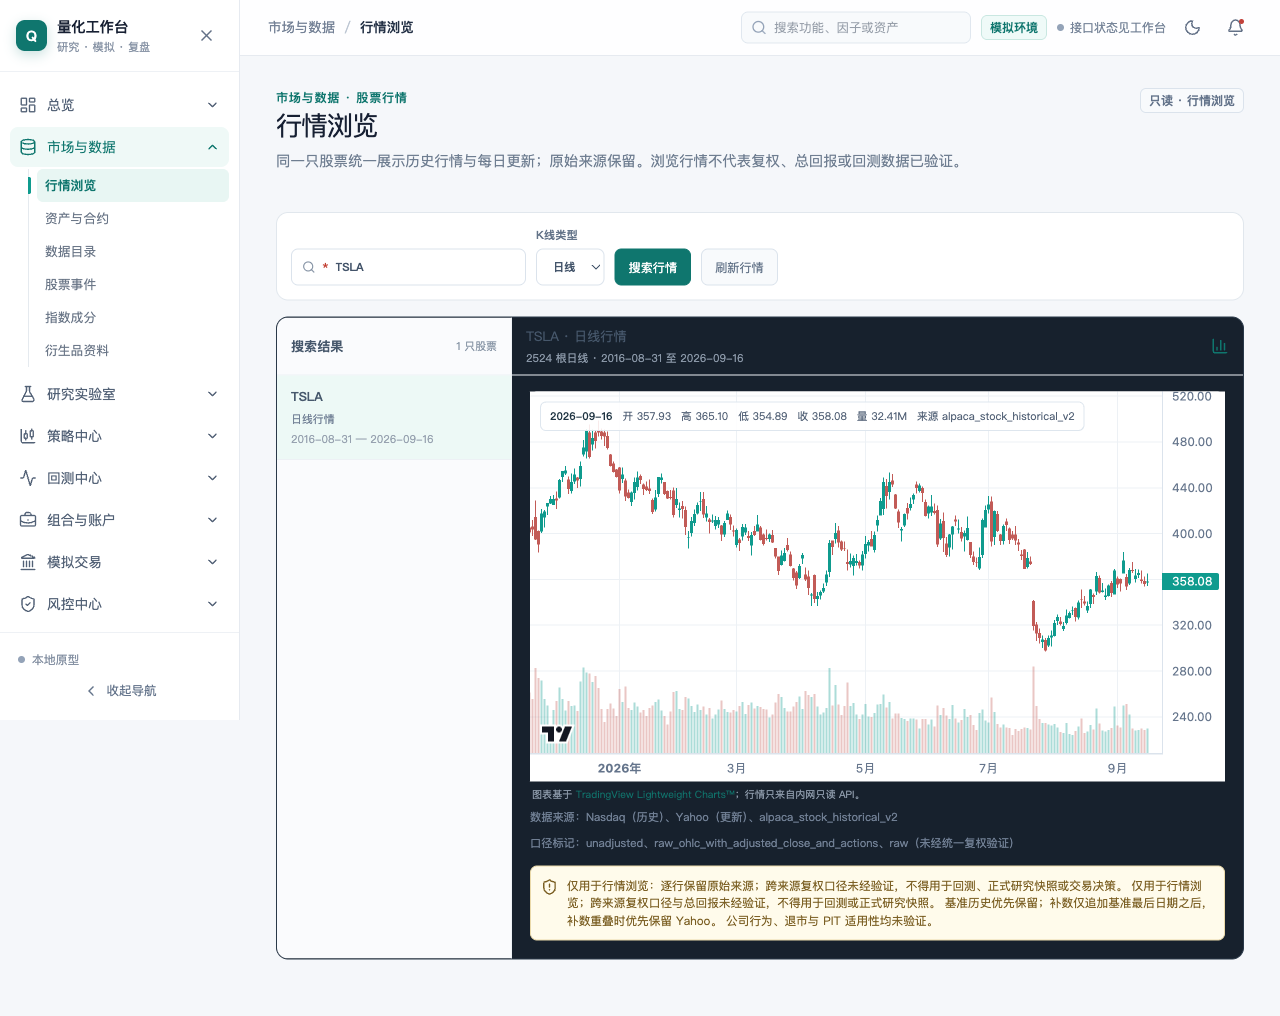
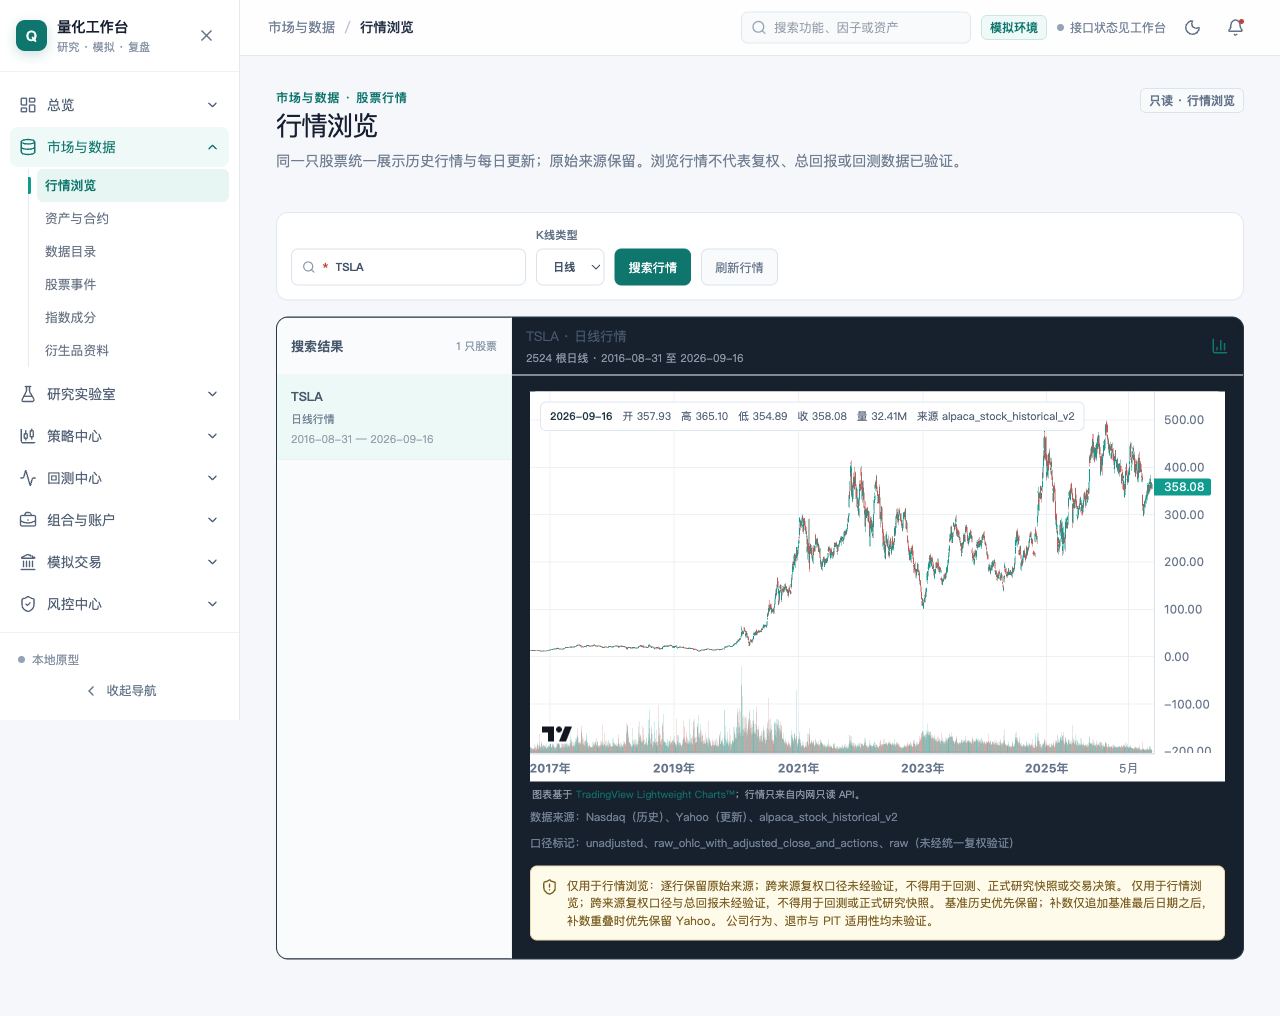
fix(ui): fit entire quote history in default chart viewport

diff --git a/ui/src/components/MarketBrowser.tsx b/ui/src/components/MarketBrowser.tsx
@@ -95,7 +95,7 @@ function CandleChart({ bars }: { bars: DailyBar[] }) {
     const palette = dark
       ? { background: '#17212d', text: '#9eafc2', grid: '#2a3949', border: '#344557', up: '#26a69a', down: '#ef5350', volumeUp: 'rgba(38, 166, 154, .45)', volumeDown: 'rgba(239, 83, 80, .45)' }
       : { background: '#ffffff', text: '#64748b', grid: '#edf1f5', border: '#dbe3ec', up: '#0f9b8e', down: '#c25b57', volumeUp: 'rgba(15, 155, 142, .35)', volumeDown: 'rgba(194, 91, 87, .35)' }
-    const chart = createChart(host, { width: host.clientWidth, height: 390, layout: { background: { type: ColorType.Solid, color: palette.background }, textColor: palette.text, attributionLogo: true }, grid: { vertLines: { color: palette.grid }, horzLines: { color: palette.grid } }, rightPriceScale: { borderColor: palette.border }, timeScale: { borderColor: palette.border, timeVisible: false, secondsVisible: false, rightOffset: 4, barSpacing: 8, minBarSpacing: 3 }, crosshair: { mode: CrosshairMode.Normal, vertLine: { color: palette.border, labelBackgroundColor: palette.up }, horzLine: { color: palette.border, labelBackgroundColor: palette.up } }, handleScroll: true, handleScale: true })
+const chart = createChart(host, { width: host.clientWidth, height: 390, layout: { background: { type: ColorType.Solid, color: palette.background }, textColor: palette.text, attributionLogo: true }, grid: { vertLines: { color: palette.grid }, horzLines: { color: palette.grid } }, rightPriceScale: { borderColor: palette.border }, timeScale: { borderColor: palette.border, timeVisible: false, secondsVisible: false, rightOffset: 4, barSpacing: 8, minBarSpacing: .01 }, crosshair: { mode: CrosshairMode.Normal, vertLine: { color: palette.border, labelBackgroundColor: palette.up }, horzLine: { color: palette.border, labelBackgroundColor: palette.up } }, handleScroll: true, handleScale: true })
     const candles = chart.addSeries(CandlestickSeries, { upColor: palette.up, downColor: palette.down, borderVisible: false, wickUpColor: palette.up, wickDownColor: palette.down, priceLineVisible: false })
     const volume = chart.addSeries(HistogramSeries, { priceFormat: { type: 'volume' }, priceScaleId: '', lastValueVisible: false, priceLineVisible: false })
     candles.setData(valid.map(toCandle).filter((bar): bar is CandlestickData<Time> => bar !== null))

diff --git a/docs/tasks/P1-08.md b/docs/tasks/P1-08.md
@@ -36,6 +36,7 @@ cd ui && PATH=/Users/douw/.nvm/versions/node/v20.19.3/bin:$PATH npm run build
 ## 2026-09-17 全历史与日周月切换
 
 - 移除显示时间范围选择，默认从索引最早日期分段读取至最新日期，保持后端单请求日期/行数限制。保留图表缩放和平移。
+- 视觉验收发现旧最小蜡烛间距限制会使fitContent仍只看到最近一段，已降低最小间距，使默认视口也容纳全部历史；可放大查看细节。
 - `ui/src/components/MarketBrowser.tsx` 增加日线/周线/月线切换；`ui/src/marketBars.ts` 按周一开始的自然周及自然月聚合已有日线，首开/最高/最低/末收、成交量求和，来源与口径保留。周期缺OHLC则不伪造完整蜡烛，缺成交量不按零补充；首尾周期可能未结束，仅供浏览、不是研究快照。
 - 15个前端单测通过（5个新增聚合测试），TypeScript/Vite构建通过。首次单测脚本默认ES5不能遍历Map，修正测试编译target后通过；生产构建目标未改变。
 - 服务器实际HTTP浏览器验收：TSLA全部覆盖2016-08-31至2026-09-16，日线2524、周线525、月线122；切换后再回日线通过，页面异常0。首次脚本标签匹配含region和select，改精确定位后通过。
